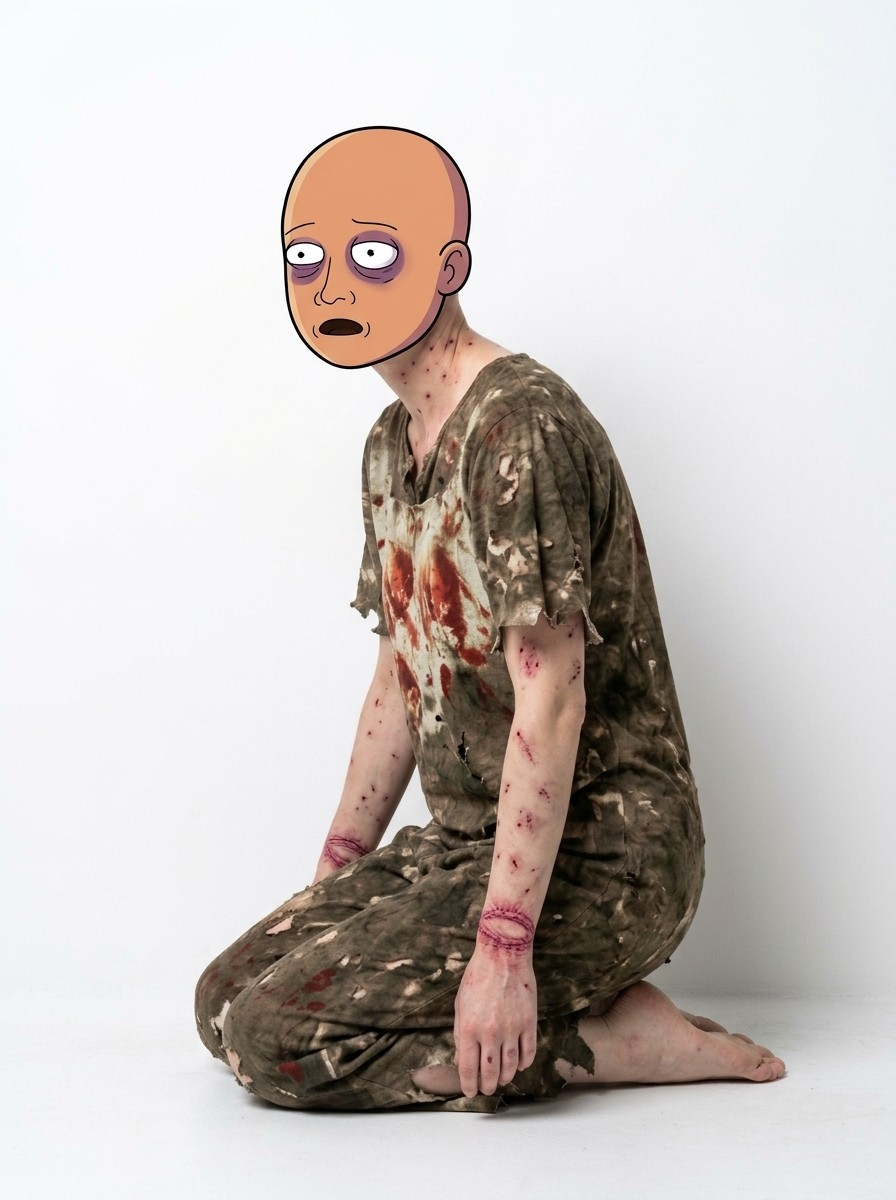
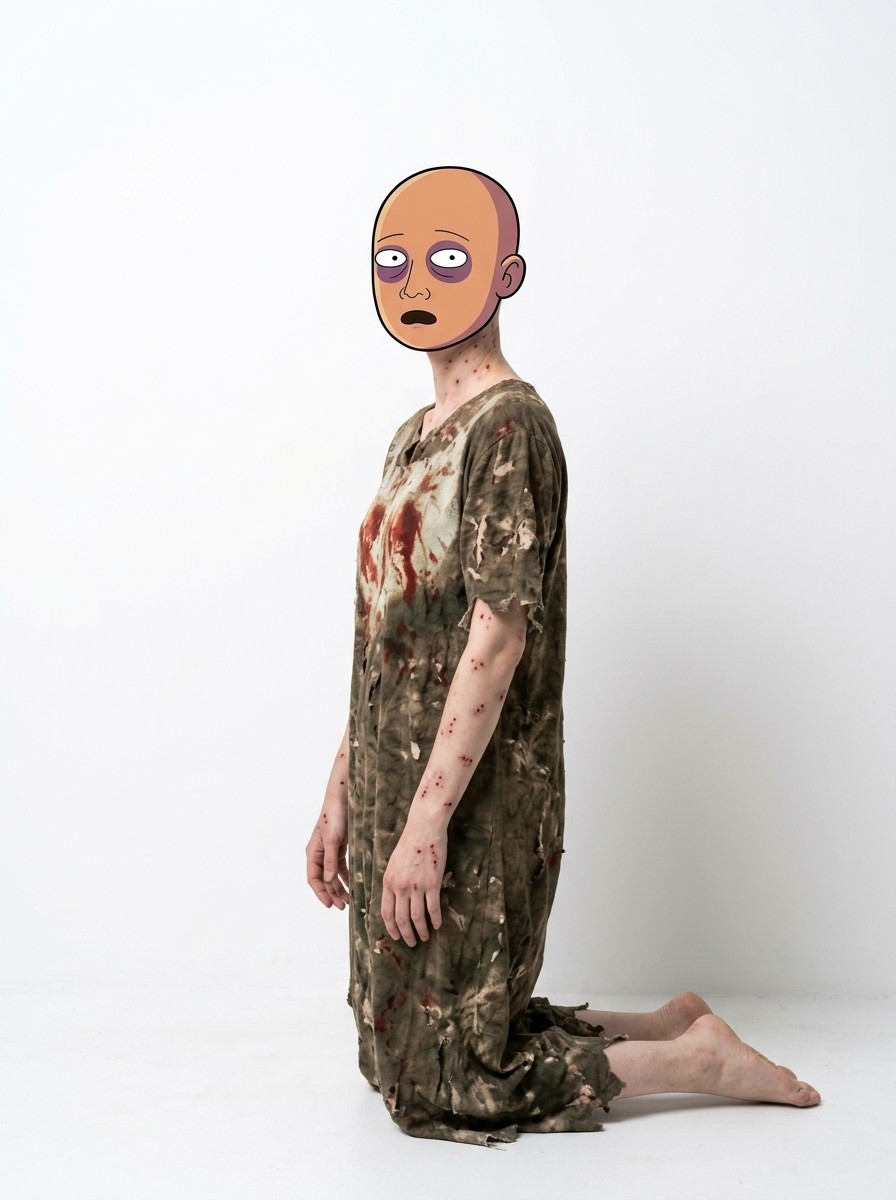
Ведьма, сцена 9: она на коленях без колец готова
Claude-Session: https://claude.ai/code/session_01AsDqB3gipy6Caw6DjyfSu7

Changed region(s): [[0.2188, 0.0925, 0.9375, 0.9558]]

diff --git a/shorts-2-5d/videos/02-vedma/README.md b/shorts-2-5d/videos/02-vedma/README.md
@@ -325,7 +325,7 @@ _Всё генерирует Ника. Одно место - зал суда в 
 | Что | Статус |
 |---|---|
 | 1. Фон: зал суда, три судьи и писарь за столом | готово 2026-10-23, оставили первый вариант (светлые переделки хуже), `kadry/9-fon-zal-suda.jpg` (стол наискосок слева, судьи в беретах и брыжах, писарь в конце стола, окно слева, дверь в глубине, пустой пол с соломой справа) |
-| 2. Она на коленях, лицом влево, на белом фоне | `kadry/9-na-kolenyah-belyy-fon.jpg` - на запястьях вышли ровные красные кольца, сгенерировать заново по промпту 2 |
+| 2. Она на коленях, лицом влево, на белом фоне | готово 2026-10-23, `kadry/9-na-kolenyah-belyy-fon.jpg` (вторая генерация, без колец; стоит прямо - контраст со «склонилась») |
 | 3. Она на коленях склонилась, руки у груди, на белом фоне | ? |
 | 4. Фон зала суда, средний судья встал и указывает вправо | ? |
 
